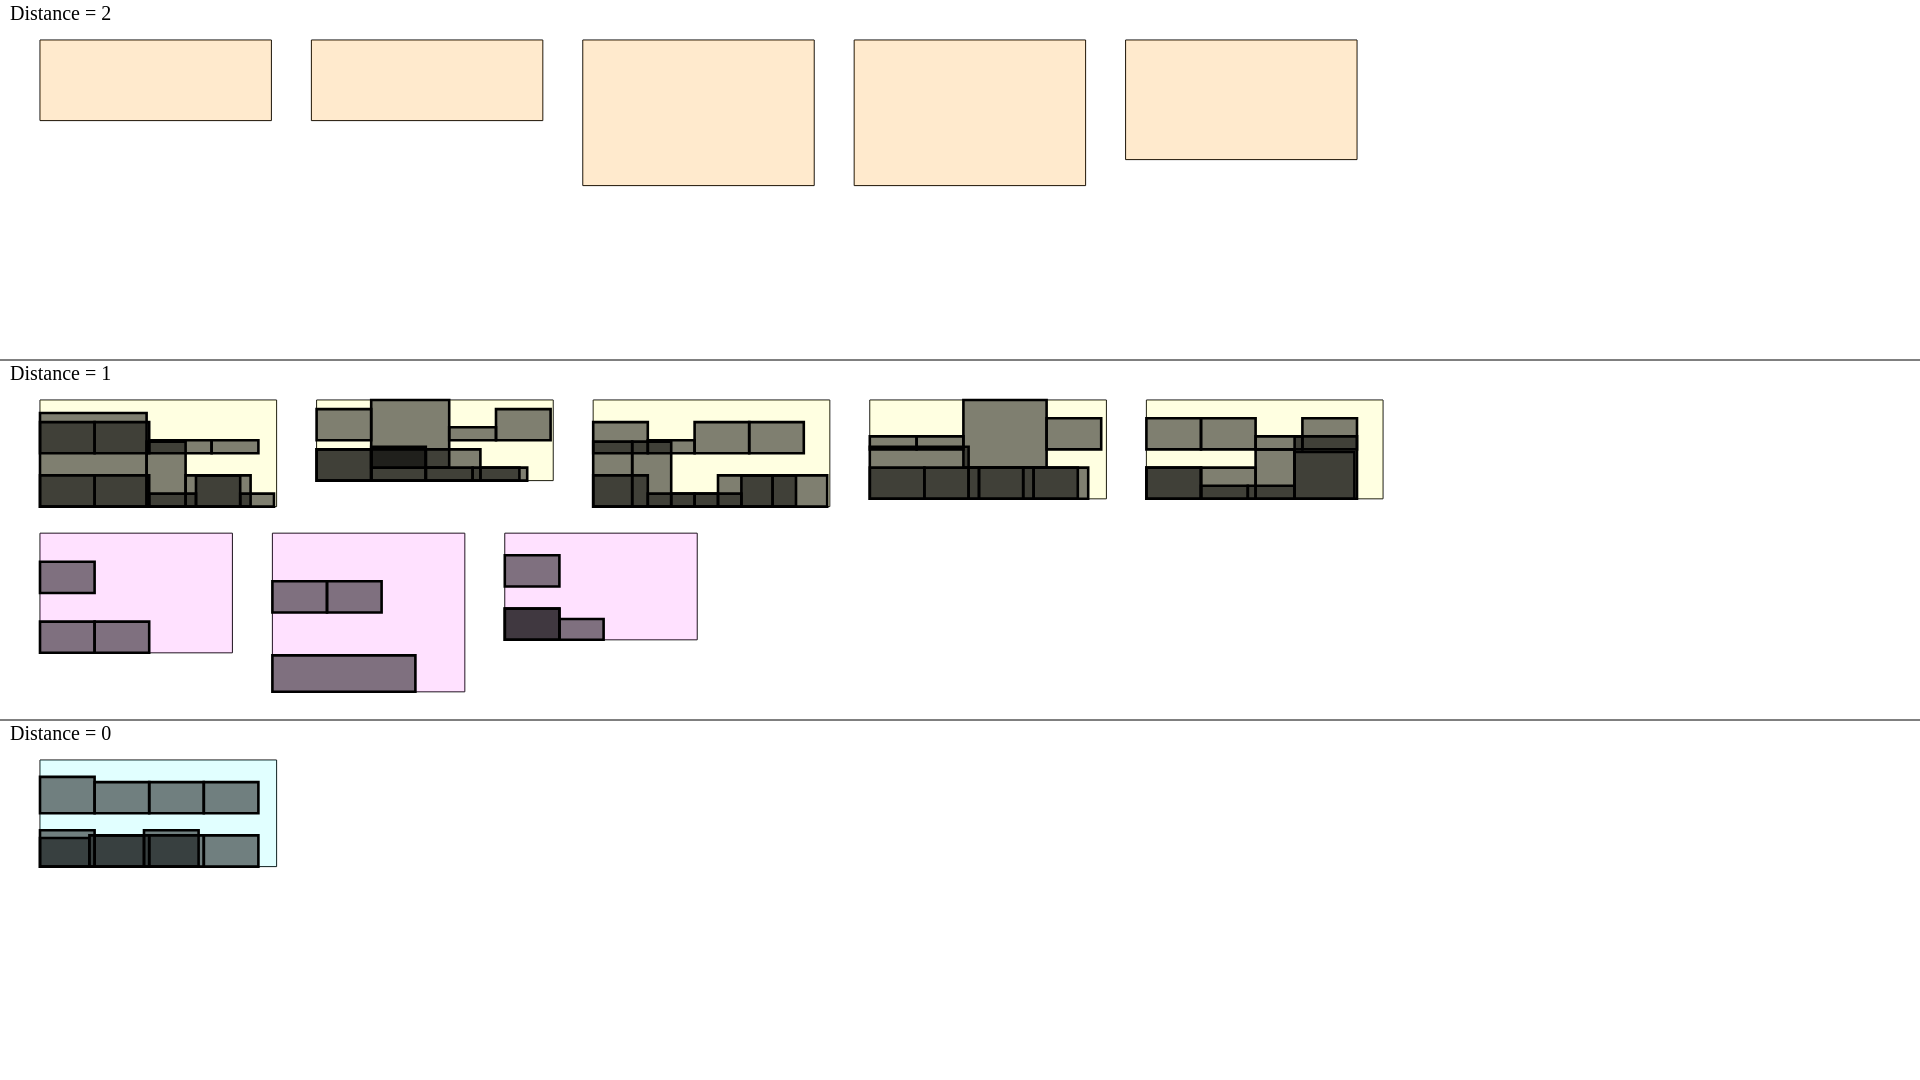
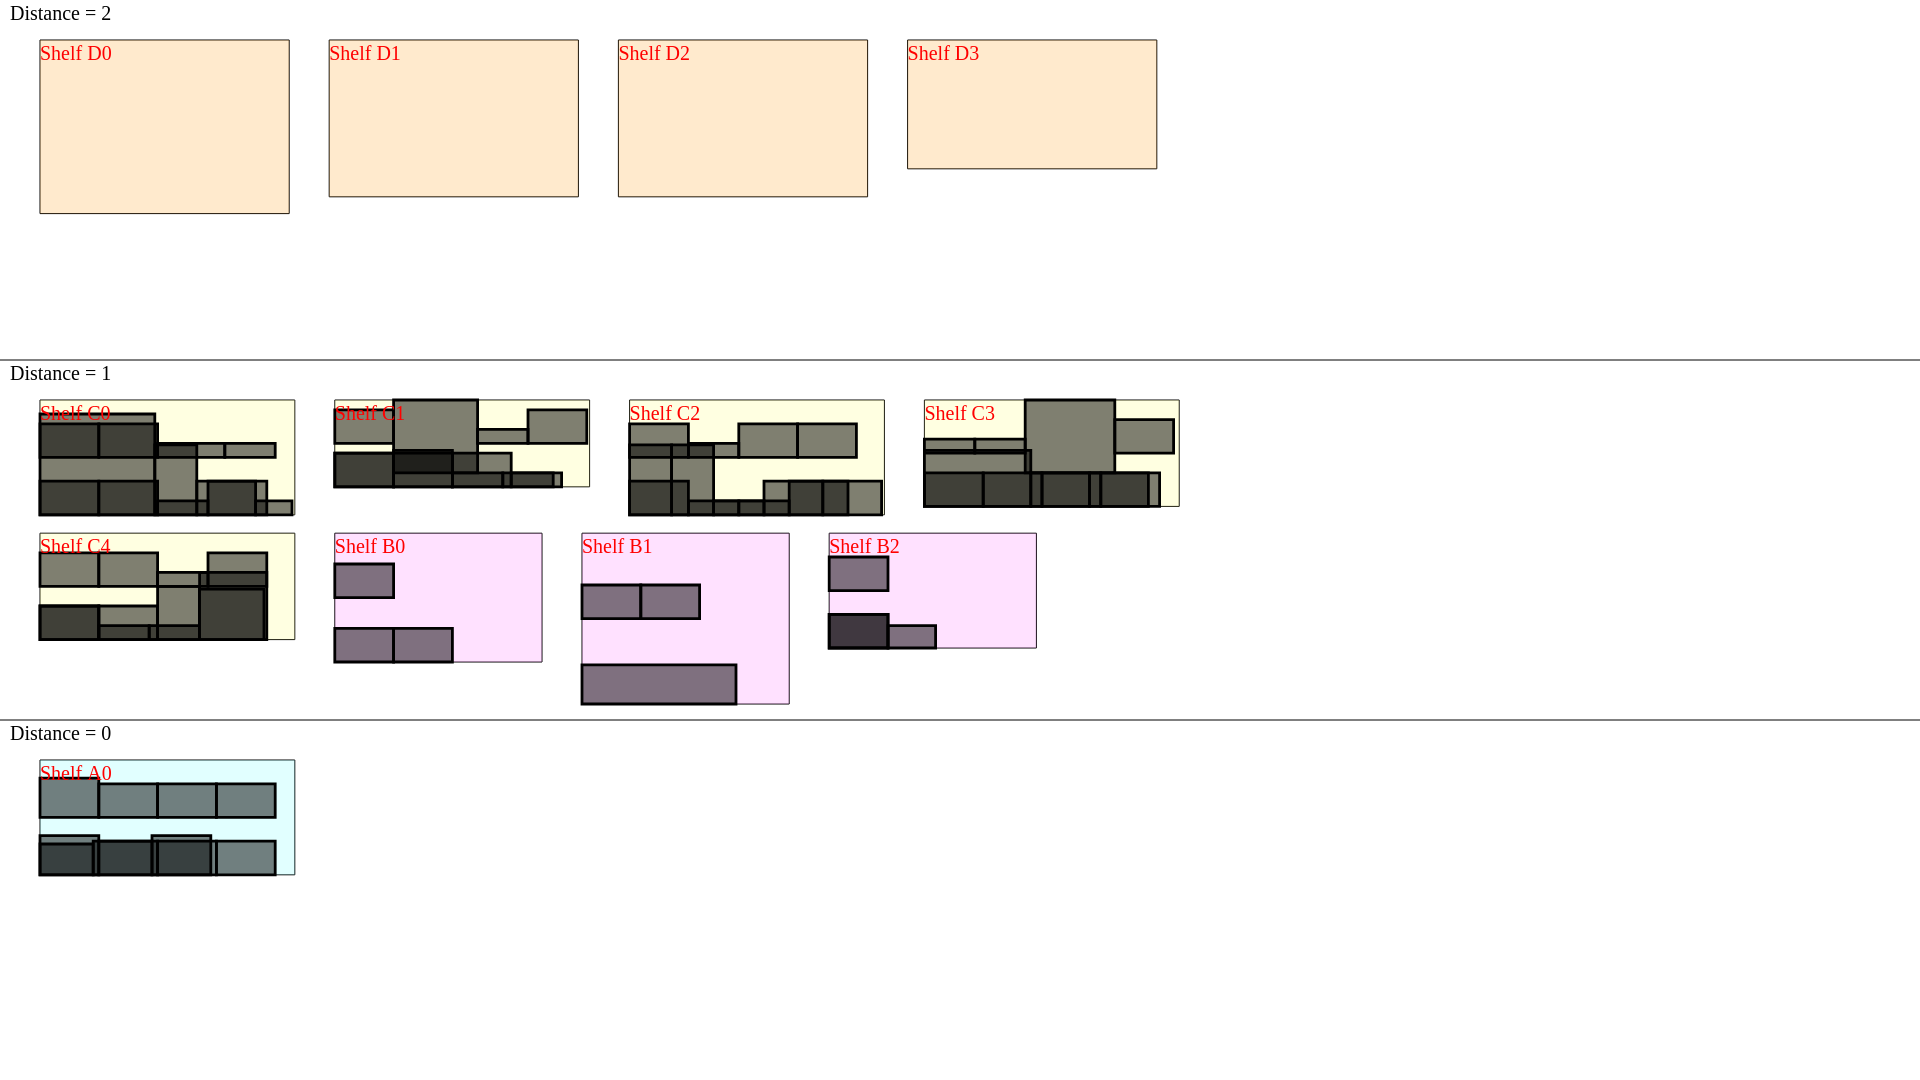
fix small JS bug, add abstract, regenerate image

diff --git a/visualizer/js.js b/visualizer/js.js
@@ -28,7 +28,7 @@ window.onload = ()=>{
     function prepItems(content) {
         let lines = content.split("\n").map(line => line.split("\t"));
         for(let idx = 0; idx < 42; idx++) {
-            let line = lines[idx >= 3 ? idx - 3: idx];
+            let line = lines[idx];
             if(line.length <= 3) continue;
             let items = [];
             for(let i = 2; i < line.length - 1; i+=3) {

diff --git a/paper.tex b/paper.tex
@@ -24,6 +24,9 @@
 \author{Sasha Krassovsky, John Lim, Andrey Ryabtsev}
 \begin{document}
 \maketitle
+\begin{abstract}
+The present organization of the closet space allocated to the University of Washington's Husky Robotics team leaves much to be improved. With carefully selected simplifying assumptions, we propose a linear programming solution to the closet organization problem. Although the general packing problem is NP-hard, this application allows for a relatively reasonable simplification to one dimensional space with duplicating each shelf to represent multiple layers of items depth-wise and height-wise. The items are optimized for how distant the shelf they are put into is, and futher arranged within each shelf by probability of access. We used the Gurobi python package to solve the MILP problem, and a custom HTML5/JS script to visualize the solution output by Gurobi. The result is an organization scheme that, when implemented, can be expected to improve the average time spent by each robotics team member when visiting the closet.
+\end{abstract}
 \pagebreak
 
 \section{Introduction}
